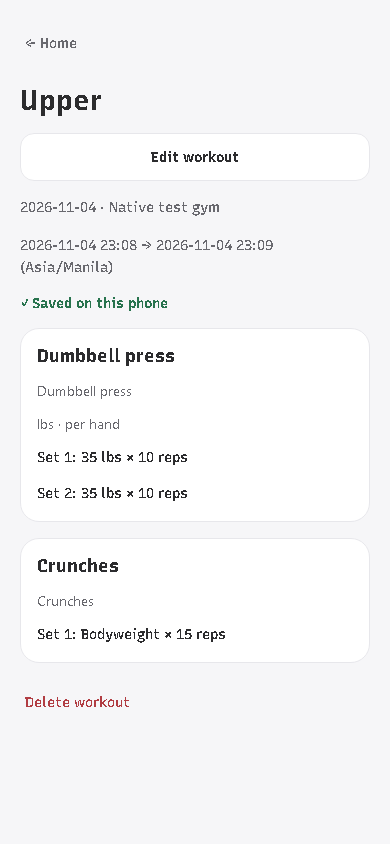
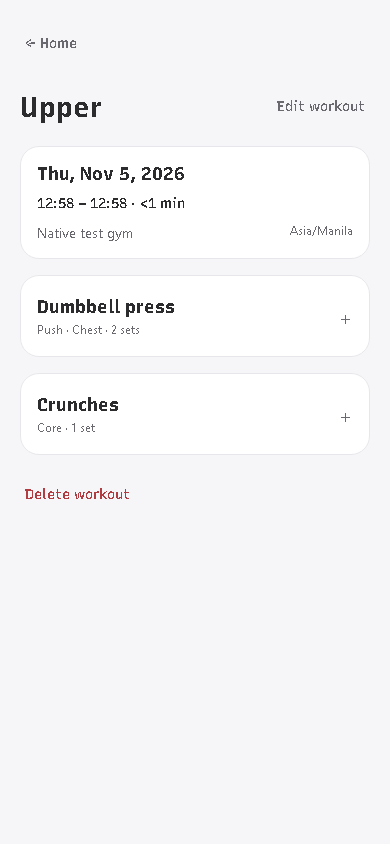
feat: add Push and Pull exercise subcategories

diff --git a/mobile/src/storage/workoutStore.ts b/mobile/src/storage/workoutStore.ts
@@ -2,7 +2,7 @@ import { completedExercises } from '../domain/workout.ts';
 import type { CompletedExercise, Location, SavedWorkout, WorkoutDraft } from '../domain/workout.ts';
 import { schema } from './schema.ts';
 import { workoutTimes } from '../domain/workoutTime.ts';
-import { cleanExerciseName, exerciseNameKey, type ExerciseCategory, type LoggedExercise } from '../domain/exerciseLibrary.ts';
+import { cleanExerciseName, exerciseNameKey, type ExerciseCategory, type ExerciseSubcategory, type LoggedExercise } from '../domain/exerciseLibrary.ts';
 
 type Param = string | number | null;
 export interface SqlExecutor {
@@ -27,14 +27,17 @@ export function createWorkoutStore(db: SqlDatabase, id: () => string, now: () =>
   async function writeExercises(tx: SqlExecutor, sessionId: string, locationId: string, exercises: CompletedExercise[]) {
     for (const [position, exercise] of exercises.entries()) {
       const mode = exercise.bodyweight ? 'reps' : 'load_reps';
-      const choices = await tx.getAllAsync<{ id: string; name: string }>('SELECT id,name FROM exercises WHERE measurement_mode=? ORDER BY id', mode);
+      const choices = await tx.getAllAsync<{ id: string; name: string; category: ExerciseCategory; subcategory: ExerciseSubcategory }>('SELECT id,name,category,subcategory FROM exercises WHERE measurement_mode=? ORDER BY id', mode);
       const sameName = (item: { name: string }) => exerciseNameKey(item.name) === exerciseNameKey(exercise.name);
       let catalog = choices.find(item => item.id === exercise.catalogId && sameName(item)) ?? choices.find(sameName);
       if (!catalog) {
-        catalog = { id: id(), name: exercise.name };
-        await tx.runAsync('INSERT INTO exercises(id,name,measurement_mode,category) VALUES (?,?,?,?)', catalog.id, exercise.name, mode, exercise.category ?? '');
+        catalog = { id: id(), name: exercise.name, category: exercise.category ?? '', subcategory: exercise.subcategory ?? '' };
+        await tx.runAsync('INSERT INTO exercises(id,name,measurement_mode,category,subcategory) VALUES (?,?,?,?,?)', catalog.id, exercise.name, mode, catalog.category, catalog.subcategory);
       }
-      if (exercise.category !== undefined) await tx.runAsync('UPDATE exercises SET category=? WHERE id=?', exercise.category, catalog.id);
+      if (exercise.category !== undefined) {
+        const subcategory = exercise.subcategory ?? (exercise.category === catalog.category ? catalog.subcategory : '');
+        await tx.runAsync('UPDATE exercises SET category=?,subcategory=? WHERE id=?', exercise.category, subcategory, catalog.id);
+      }
       const equipmentName = exercise.equipment || cleanExerciseName(catalog.name);
       const convention = exercise.bodyweight ? 'total' : exercise.convention;
       const dimension = exercise.bodyweight ? 'bodyweight' : exercise.unit === 'plates' ? 'plates' : 'mass';
@@ -52,7 +55,7 @@ export function createWorkoutStore(db: SqlDatabase, id: () => string, now: () =>
   async function readWorkout(sessionId: string): Promise<SavedWorkout> {
     const session = await db.getFirstAsync<Omit<SavedWorkout, 'exercises'>>('SELECT id,timezone,activity_date AS activityDate,session_type_name_snapshot AS sessionType,location_name_snapshot AS locationName,started_at AS startedAt,ended_at AS endedAt FROM sessions WHERE id=?', sessionId);
     if (!session) throw new Error('This workout could not be found.');
-    const rows = await db.getAllAsync<{ id: string; catalogId: string; category: ExerciseCategory; name: string; equipment: string; bodyweight: number; unit: CompletedExercise['unit']; convention: CompletedExercise['convention'] }>('SELECT se.id,se.exercise_id AS catalogId,e.category,se.exercise_name_snapshot AS name,se.equipment_name_snapshot AS equipment,se.bodyweight,se.load_unit AS unit,se.load_convention AS convention FROM session_exercises se JOIN exercises e ON e.id=se.exercise_id WHERE se.session_id=? ORDER BY se.position', sessionId);
+    const rows = await db.getAllAsync<{ id: string; catalogId: string; category: ExerciseCategory; subcategory: ExerciseSubcategory; name: string; equipment: string; bodyweight: number; unit: CompletedExercise['unit']; convention: CompletedExercise['convention'] }>('SELECT se.id,se.exercise_id AS catalogId,e.category,e.subcategory,se.exercise_name_snapshot AS name,se.equipment_name_snapshot AS equipment,se.bodyweight,se.load_unit AS unit,se.load_convention AS convention FROM session_exercises se JOIN exercises e ON e.id=se.exercise_id WHERE se.session_id=? ORDER BY se.position', sessionId);
     const exercises: CompletedExercise[] = [];
     for (const exercise of rows) {
       const sets = await db.getAllAsync<CompletedExercise['sets'][number]>('SELECT id,load_value AS weight,reps FROM sets WHERE session_exercise_id=? ORDER BY position', exercise.id);
@@ -65,10 +68,11 @@ export function createWorkoutStore(db: SqlDatabase, id: () => string, now: () =>
       await db.execAsync('PRAGMA foreign_keys=ON; PRAGMA journal_mode=WAL;');
       await db.transaction(async tx => {
         const version = (await tx.getFirstAsync<{ user_version: number }>('PRAGMA user_version'))?.user_version ?? 0;
-        if (version > 3) throw new Error('This database was created by a newer app. Update the app to open it.');
+        if (version > 4) throw new Error('This database was created by a newer app. Update the app to open it.');
         if (version === 0) await tx.execAsync(schema);
         if (version < 2) await tx.execAsync('ALTER TABLE locations ADD COLUMN archived INTEGER NOT NULL DEFAULT 0 CHECK(archived IN (0,1)); PRAGMA user_version=2;');
         if (version < 3) await tx.execAsync("ALTER TABLE exercises ADD COLUMN category TEXT NOT NULL DEFAULT '' CHECK(category IN ('','Push','Pull','Legs','Core','Cardio','Mobility','Other')); PRAGMA user_version=3;");
+        if (version < 4) await tx.execAsync("ALTER TABLE exercises ADD COLUMN subcategory TEXT NOT NULL DEFAULT '' CHECK(subcategory='' OR (category='Push' AND subcategory IN ('Chest','Triceps','Shoulders')) OR (category='Pull' AND subcategory IN ('Back','Biceps'))); PRAGMA user_version=4;");
       });
     }),
     listLocations: () => queue(() => db.getAllAsync<Location>('SELECT * FROM locations ORDER BY kind DESC,name')),
@@ -79,14 +83,14 @@ export function createWorkoutStore(db: SqlDatabase, id: () => string, now: () =>
       await db.runAsync('UPDATE locations SET archived=1 WHERE id=?', locationId);
     }),
     listLoggedExercises: () => queue(async (): Promise<LoggedExercise[]> => {
-      const rows = await db.getAllAsync<{ id: string; name: string; category: ExerciseCategory; measurement_mode: string }>(
-        'SELECT DISTINCT e.id,e.name,e.category,e.measurement_mode FROM exercises e JOIN session_exercises se ON se.exercise_id=e.id JOIN sessions s ON s.id=se.session_id WHERE s.status=? ORDER BY e.name COLLATE NOCASE,e.id', 'completed');
+      const rows = await db.getAllAsync<{ id: string; name: string; category: ExerciseCategory; subcategory: ExerciseSubcategory; measurement_mode: string }>(
+        'SELECT DISTINCT e.id,e.name,e.category,e.subcategory,e.measurement_mode FROM exercises e JOIN session_exercises se ON se.exercise_id=e.id JOIN sessions s ON s.id=se.session_id WHERE s.status=? ORDER BY e.name COLLATE NOCASE,e.id', 'completed');
       const seen = new Set<string>();
       return rows.flatMap(row => {
         const key = `${row.measurement_mode}:${exerciseNameKey(row.name)}`;
         if (seen.has(key)) return [];
         seen.add(key);
-        return [{ id: row.id, name: cleanExerciseName(row.name), bodyweight: row.measurement_mode === 'reps', category: row.category }];
+        return [{ id: row.id, name: cleanExerciseName(row.name), bodyweight: row.measurement_mode === 'reps', category: row.category, subcategory: row.subcategory }];
       });
     }),
     addGym: (name: string) => queue(async () => {

diff --git a/mobile/src/features/workouts/ExercisePicker.tsx b/mobile/src/features/workouts/ExercisePicker.tsx
@@ -1,23 +1,27 @@
 import { useRef, useState } from 'react';
 import { KeyboardAvoidingView, Modal, Platform, Pressable, ScrollView, Text, View } from 'react-native';
 import { SafeAreaView } from 'react-native-safe-area-context';
-import { cleanExerciseName, exerciseNameKey, exerciseCategories, matchingExercises, type ExerciseCategory, type LoggedExercise } from '../../domain/exerciseLibrary';
-import { Button, Field, styles } from '../../ui/controls';
+import { cleanExerciseName, exerciseNameKey, exerciseCategories, matchingExercises, subcategoriesFor, type ExerciseCategory, type ExerciseSubcategory, type LoggedExercise } from '../../domain/exerciseLibrary';
+import { Button, Choice, Field, styles } from '../../ui/controls';
 import { fonts, type AppTheme } from '../../ui/theme';
 import { ExerciseCategoryField } from './ExerciseCategoryField';
 
 export function ExercisePicker({ theme, items, loading, error, retry, cancel, add }: {
   theme: AppTheme; items: LoggedExercise[]; loading: boolean; error: string; retry: () => void;
-  cancel: () => void; add: (name: string, option?: LoggedExercise, category?: ExerciseCategory) => void;
+  cancel: () => void; add: (name: string, option?: LoggedExercise, category?: ExerciseCategory, subcategory?: ExerciseSubcategory) => void;
 }) {
   const [name, setName] = useState('');
   const [selected, setSelected] = useState<LoggedExercise>();
   const [filter, setFilter] = useState<ExerciseCategory | 'All'>('All');
   const [category, setCategory] = useState<ExerciseCategory>();
+  const [subcategory, setSubcategory] = useState<ExerciseSubcategory>();
+  const [subFilter, setSubFilter] = useState<ExerciseSubcategory | 'All'>('All');
   const submitted = useRef(false);
-  const matches = matchingExercises(items, name, filter);
+  const matches = matchingExercises(items, name, filter, subFilter);
   const option = selected ?? matchingExercises(items, name).find(item => exerciseNameKey(item.name) === exerciseNameKey(name));
   const assignedCategory = category ?? option?.category ?? '';
+  const assignedSubcategory = subcategory ?? (assignedCategory === option?.category ? option.subcategory ?? '' : '');
+  const filterGroups = filter === 'All' ? [] : subcategoriesFor(filter);
   return <Modal transparent animationType="fade" onRequestClose={cancel}>
     <SafeAreaView style={{ flex: 1, backgroundColor: '#00000066', justifyContent: 'center', padding: 16 }}>
       <KeyboardAvoidingView behavior={Platform.OS === 'ios' ? 'padding' : undefined} style={{ width: '100%', maxWidth: 480, alignSelf: 'center', maxHeight: '100%' }}>
@@ -29,11 +33,14 @@ export function ExercisePicker({ theme, items, loading, error, retry, cancel, ad
             placeholder="Search or add an exercise" onChangeText={value => { setName(value); setSelected(undefined); }} />
           <ScrollView horizontal showsHorizontalScrollIndicator={false} keyboardShouldPersistTaps="handled" contentContainerStyle={{ gap: 8 }}>
             {(['All', ...exerciseCategories, ''] as const).map(value => <Pressable key={value} accessibilityRole="button" accessibilityLabel={`Filter exercises: ${value || 'Uncategorized'}`}
-              accessibilityState={{ selected: filter === value }} onPress={() => setFilter(value)}
+              accessibilityState={{ selected: filter === value }} onPress={() => { setFilter(value); setSubFilter('All'); }}
               style={[styles.choice, { borderColor: filter === value ? theme.primary : 'transparent', backgroundColor: filter === value ? theme.accentSoft : theme.soft }]}>
               <Text style={{ color: filter === value ? theme.accent : theme.muted, fontFamily: fonts.medium }}>{value || 'Uncategorized'}</Text>
             </Pressable>)}
           </ScrollView>
+          {filterGroups.length > 0 && <Choice<ExerciseSubcategory | 'All'> theme={theme} label="Filter subcategory" value={subFilter}
+            options={[{ value: 'All', label: 'All' }, ...filterGroups.map(group => ({ value: group, label: group })), { value: '', label: 'Not assigned' }]}
+            onChange={setSubFilter} />}
           <Text style={{ color: theme.muted, fontFamily: fonts.medium }}>Previously logged</Text>
           <View style={{ gap: 8 }}>
             {loading && <Text style={{ color: theme.muted }}>Loading suggestions…</Text>}
@@ -43,21 +50,22 @@ export function ExercisePicker({ theme, items, loading, error, retry, cancel, ad
             </Text>}
             {matches.slice(0, 50).map(item => <Pressable key={item.id} accessibilityRole="button"
               accessibilityLabel={`Use ${item.name}, ${item.bodyweight ? 'bodyweight' : 'load and reps'}`} accessibilityState={{ selected: selected?.id === item.id }}
-              onPress={() => { setName(item.name); setSelected(item); setCategory(item.category ?? ''); }}
+              onPress={() => { setName(item.name); setSelected(item); setCategory(item.category ?? ''); setSubcategory(item.subcategory ?? ''); }}
               style={[styles.input, { borderWidth: 1, borderColor: selected?.id === item.id ? theme.primary : theme.border, backgroundColor: selected?.id === item.id ? theme.accentSoft : theme.soft, gap: 4 }]}>
               <Text style={{ color: theme.text, fontFamily: fonts.medium }}>{item.name}</Text>
               <Text style={{ color: theme.muted, fontSize: 12 }}>{item.bodyweight ? 'Bodyweight reps' : 'Load + reps'}</Text>
-              <Text style={{ color: theme.muted, fontSize: 12 }}>{item.category || 'Uncategorized'}</Text>
+              <Text style={{ color: theme.muted, fontSize: 12 }}>{[item.category, item.subcategory].filter(Boolean).join(' · ') || 'Uncategorized'}</Text>
             </Pressable>)}
             {matches.length > 50 && <Text style={{ color: theme.muted }}>Showing 50 matches. Keep typing to narrow the list.</Text>}
           </View>
-          <ExerciseCategoryField value={assignedCategory} theme={theme} onChange={setCategory} />
+          <ExerciseCategoryField value={assignedCategory} subcategory={assignedSubcategory} theme={theme}
+            onChange={value => { setCategory(value); setSubcategory(value === assignedCategory ? assignedSubcategory : ''); }} onSubcategoryChange={setSubcategory} />
           <Text style={{ color: theme.muted, fontSize: 12 }}>Category is remembered when you save the workout. It does not change the session type.</Text>
           </ScrollView>
           <Button theme={theme} variant="add" label="+ Add exercise" disabled={!cleanExerciseName(name)} onPress={() => {
             if (submitted.current || !cleanExerciseName(name)) return;
             submitted.current = true;
-            add(option?.name ?? cleanExerciseName(name), option, assignedCategory);
+            add(option?.name ?? cleanExerciseName(name), option, assignedCategory, assignedSubcategory);
           }} />
           <Button theme={theme} label="Cancel" onPress={cancel} />
         </View>

diff --git a/mobile/src/features/workouts/__tests__/ExercisePicker.test.tsx b/mobile/src/features/workouts/__tests__/ExercisePicker.test.tsx
@@ -4,6 +4,35 @@ import { getTheme } from '../../../ui/theme';
 
 const items = [{ id: 'press', name: 'Dumbbell press', bodyweight: false }, { id: 'crunch', name: 'Crunches', bodyweight: true }];
 
+it('filters Push exercises by muscle group and assigns a compatible subcategory', async () => {
+  const add = jest.fn();
+  await render(<ExercisePicker theme={getTheme('light')} items={[
+    { ...items[0], category: 'Push', subcategory: 'Chest' },
+    { id: 'extension', name: 'Triceps extension', bodyweight: false, category: 'Push', subcategory: 'Triceps' },
+  ]} loading={false} error="" retry={jest.fn()} cancel={jest.fn()} add={add} />);
+  await fireEvent.press(screen.getByRole('button', { name: 'Filter exercises: Push' }));
+  await fireEvent.press(screen.getByRole('button', { name: 'Filter subcategory: Chest' }));
+  expect(screen.queryByRole('button', { name: 'Use Triceps extension, load and reps' })).toBeNull();
+  await fireEvent.press(screen.getByRole('button', { name: 'Use Dumbbell press, load and reps' }));
+  expect(screen.getByRole('button', { name: 'Subcategory: Chest' })).toBeOnTheScreen();
+  await fireEvent.press(screen.getByRole('button', { name: '+ Add exercise' }));
+  expect(add).toHaveBeenCalledWith('Dumbbell press', expect.objectContaining({ id: 'press' }), 'Push', 'Chest');
+});
+
+it('clears the Push subcategory when changing to Pull and offers only Back and Biceps', async () => {
+  const add = jest.fn();
+  await render(<ExercisePicker theme={getTheme('light')} items={[{ ...items[0], category: 'Push', subcategory: 'Chest' }]} loading={false} error="" retry={jest.fn()} cancel={jest.fn()} add={add} />);
+  await fireEvent.press(screen.getByRole('button', { name: 'Use Dumbbell press, load and reps' }));
+  await fireEvent.press(screen.getByRole('button', { name: 'Category: Push' }));
+  await fireEvent.press(screen.getByRole('button', { name: 'Exercise category: Pull' }));
+  await fireEvent.press(screen.getByRole('button', { name: 'Subcategory: Not assigned' }));
+  expect(screen.queryByRole('button', { name: 'Exercise subcategory: Chest' })).toBeNull();
+  expect(screen.getByRole('button', { name: 'Exercise subcategory: Back' })).toBeOnTheScreen();
+  await fireEvent.press(screen.getByRole('button', { name: 'Exercise subcategory: Biceps' }));
+  await fireEvent.press(screen.getByRole('button', { name: '+ Add exercise' }));
+  expect(add).toHaveBeenCalledWith('Dumbbell press', expect.objectContaining({ id: 'press' }), 'Pull', 'Biceps');
+});
+
 it('combines category filters with name search and allows assigning a new exercise category', async () => {
   const add = jest.fn();
   await render(<ExercisePicker theme={getTheme('light')} items={[{ ...items[0], category: 'Push' }, { ...items[1], category: 'Core' }]} loading={false} error="" retry={jest.fn()} cancel={jest.fn()} add={add} />);
@@ -15,7 +44,7 @@ it('combines category filters with name search and allows assigning a new exerci
   await fireEvent.press(screen.getByRole('button', { name: 'Category: Uncategorized' }));
   await fireEvent.press(screen.getByRole('button', { name: 'Exercise category: Core' }));
   await fireEvent.press(screen.getByRole('button', { name: '+ Add exercise' }));
-  expect(add).toHaveBeenCalledWith('plank', undefined, 'Core');
+  expect(add).toHaveBeenCalledWith('plank', undefined, 'Core', '');
 });
 
 it('searches previous exercises without case/spacing differences and preserves selected identity and mode', async () => {
@@ -26,7 +55,7 @@ it('searches previous exercises without case/spacing differences and preserves s
   expect(picker.queryByRole('button', { name: 'Use Dumbbell press, load and reps' })).toBeNull();
   await fireEvent.press(picker.getByRole('button', { name: 'Use Crunches, bodyweight' }));
   await fireEvent.press(picker.getByRole('button', { name: '+ Add exercise' }));
-  expect(add).toHaveBeenCalledWith('Crunches', items[1], '');
+  expect(add).toHaveBeenCalledWith('Crunches', items[1], '', '');
 });
 
 it('allows a clean new name during suggestion failure and blocks empty names', async () => {
@@ -36,7 +65,7 @@ it('allows a clean new name during suggestion failure and blocks empty names', a
   await fireEvent.press(screen.getByRole('button', { name: 'Retry suggestions' })); expect(retry).toHaveBeenCalledTimes(1);
   await fireEvent.changeText(screen.getByLabelText('Search exercise names'), '  Zottman   curl ');
   await fireEvent.press(screen.getByRole('button', { name: '+ Add exercise' }));
-  expect(add).toHaveBeenCalledWith('Zottman curl', undefined, '');
+  expect(add).toHaveBeenCalledWith('Zottman curl', undefined, '', '');
 });
 
 it('cancels without adding an exercise', async () => {
@@ -56,5 +85,5 @@ it('retains the saved category for an exact name even when another filter is act
   await fireEvent.changeText(screen.getByLabelText('Search exercise names'), '  DUMBBELL press  ');
   expect(screen.getByRole('button', { name: 'Category: Push' })).toBeOnTheScreen();
   await fireEvent.press(screen.getByRole('button', { name: '+ Add exercise' }));
-  expect(add).toHaveBeenCalledWith('Dumbbell press', expect.objectContaining({ id: 'press' }), 'Push');
+  expect(add).toHaveBeenCalledWith('Dumbbell press', expect.objectContaining({ id: 'press' }), 'Push', '');
 });

diff --git a/mobile/src/features/workouts/ExerciseCategoryField.tsx b/mobile/src/features/workouts/ExerciseCategoryField.tsx
@@ -1,17 +1,26 @@
 import { useState } from 'react';
 import { View } from 'react-native';
-import { exerciseCategories, type ExerciseCategory } from '../../domain/exerciseLibrary';
+import { exerciseCategories, subcategoriesFor, type ExerciseCategory, type ExerciseSubcategory } from '../../domain/exerciseLibrary';
 import { Button, Choice } from '../../ui/controls';
 import type { AppTheme } from '../../ui/theme';
 
-export function ExerciseCategoryField({ value, theme, disabled = false, onChange }: {
-  value: ExerciseCategory; theme: AppTheme; disabled?: boolean; onChange: (category: ExerciseCategory) => void;
+export function ExerciseCategoryField({ value, subcategory = '', theme, disabled = false, onChange, onSubcategoryChange }: {
+  value: ExerciseCategory; subcategory?: ExerciseSubcategory; theme: AppTheme; disabled?: boolean;
+  onChange: (category: ExerciseCategory) => void; onSubcategoryChange?: (subcategory: ExerciseSubcategory) => void;
 }) {
   const [open, setOpen] = useState(false);
+  const [subOpen, setSubOpen] = useState(false);
+  const groups = subcategoriesFor(value);
   return <View style={{ gap: 8 }}>
     <Button theme={theme} variant="link" label={`Category: ${value || 'Uncategorized'}`} disabled={disabled} onPress={() => setOpen(current => !current)} />
     {open && <Choice<ExerciseCategory> theme={theme} label="Exercise category" value={value} disabled={disabled}
       options={[{ value: '', label: 'Uncategorized' }, ...exerciseCategories.map(category => ({ value: category, label: category }))]}
-      onChange={category => { onChange(category); setOpen(false); }} />}
+      onChange={category => { onChange(category); setOpen(false); setSubOpen(false); }} />}
+    {groups.length > 0 && onSubcategoryChange && <>
+      <Button theme={theme} variant="link" label={`Subcategory: ${subcategory || 'Not assigned'}`} disabled={disabled} onPress={() => setSubOpen(current => !current)} />
+      {subOpen && <Choice<ExerciseSubcategory> theme={theme} label="Exercise subcategory" value={subcategory} disabled={disabled}
+        options={[{ value: '', label: 'Not assigned' }, ...groups.map(group => ({ value: group, label: group }))]}
+        onChange={group => { onSubcategoryChange(group); setSubOpen(false); }} />}
+    </>}
   </View>;
 }

diff --git a/mobile/src/domain/exerciseLibrary.ts b/mobile/src/domain/exerciseLibrary.ts
@@ -1,6 +1,12 @@
 export const exerciseCategories = ['Push', 'Pull', 'Legs', 'Core', 'Cardio', 'Mobility', 'Other'] as const;
 export type ExerciseCategory = typeof exerciseCategories[number] | '';
-export type LoggedExercise = { id: string; name: string; bodyweight: boolean; category?: ExerciseCategory };
+export type ExerciseSubcategory = 'Chest' | 'Triceps' | 'Shoulders' | 'Back' | 'Biceps' | '';
+export function subcategoriesFor(category: ExerciseCategory): readonly ExerciseSubcategory[] {
+  if (category === 'Push') return ['Chest', 'Triceps', 'Shoulders'];
+  if (category === 'Pull') return ['Back', 'Biceps'];
+  return [];
+}
+export type LoggedExercise = { id: string; name: string; bodyweight: boolean; category?: ExerciseCategory; subcategory?: ExerciseSubcategory };
 
 export function cleanExerciseName(name: string): string {
   return name.trim().replace(/\s+/g, ' ');
@@ -10,7 +16,9 @@ export function exerciseNameKey(name: string): string {
   return cleanExerciseName(name).toLowerCase();
 }
 
-export function matchingExercises(items: LoggedExercise[], query: string, category: ExerciseCategory | 'All' = 'All'): LoggedExercise[] {
+export function matchingExercises(items: LoggedExercise[], query: string, category: ExerciseCategory | 'All' = 'All', subcategory: ExerciseSubcategory | 'All' = 'All'): LoggedExercise[] {
   const key = exerciseNameKey(query);
-  return items.filter(item => exerciseNameKey(item.name).includes(key) && (category === 'All' || (item.category ?? '') === category));
+  return items.filter(item => exerciseNameKey(item.name).includes(key)
+    && (category === 'All' || (item.category ?? '') === category)
+    && (subcategory === 'All' || (item.subcategory ?? '') === subcategory));
 }

diff --git a/mobile/src/domain/workout.ts b/mobile/src/domain/workout.ts
@@ -1,4 +1,4 @@
-import { cleanExerciseName, exerciseCategories, type ExerciseCategory } from './exerciseLibrary.ts';
+import { cleanExerciseName, exerciseCategories, subcategoriesFor, type ExerciseCategory, type ExerciseSubcategory } from './exerciseLibrary.ts';
 
 export type LoadUnit = 'lb' | 'kg' | 'plates';
 export type Convention = 'total' | 'per_hand' | 'per_side';
@@ -6,6 +6,7 @@ export type SetDraft = { id: string; weight: string; reps: string; completed: bo
 export type ExerciseDraft = {
   catalogId?: string;
   category?: ExerciseCategory;
+  subcategory?: ExerciseSubcategory;
   id: string; name: string; equipment: string; bodyweight: boolean;
   unit: LoadUnit; convention: Convention; sets: SetDraft[];
 };
@@ -53,6 +54,9 @@ export function completedExercises(draft: WorkoutDraft): CompletedExercise[] {
     if (!exercise.name.trim()) throw new Error('Name each exercise with completed sets.');
     if (exercise.category !== undefined && exercise.category !== '' && !exerciseCategories.includes(exercise.category)) {
       throw new Error('Choose a valid exercise category.');
+    }
+    if (exercise.subcategory !== undefined && exercise.subcategory !== '' && !subcategoriesFor(exercise.category ?? '').includes(exercise.subcategory)) {
+      throw new Error('Choose a subcategory that belongs to the exercise category.');
     }
     if (!['lb', 'kg', 'plates'].includes(exercise.unit) || !['total', 'per_hand', 'per_side'].includes(exercise.convention)) {
       throw new Error('Choose a valid unit and load convention.');

diff --git a/mobile/src/features/workouts/CompletedExerciseSummary.tsx b/mobile/src/features/workouts/CompletedExerciseSummary.tsx
@@ -7,13 +7,14 @@ import { fonts, type AppTheme } from '../../ui/theme';
 export function CompletedExerciseSummary({ exercise, theme }: { exercise: CompletedExercise; theme: AppTheme }) {
   const [expanded, setExpanded] = useState(false);
   const count = `${exercise.sets.length} ${exercise.sets.length === 1 ? 'set' : 'sets'}`;
+  const classification = [exercise.category, exercise.subcategory].filter(Boolean).join(' · ');
   return <View style={[styles.card, { backgroundColor: theme.surface, borderColor: theme.border }]}>
-    <Pressable accessibilityRole="button" accessibilityLabel={`${exercise.name}, ${count}`} accessibilityState={{ expanded }}
+    <Pressable accessibilityRole="button" accessibilityLabel={[exercise.name, classification, count].filter(Boolean).join(', ')} accessibilityState={{ expanded }}
       accessibilityHint={expanded ? 'Hide completed sets' : 'Show completed sets'} onPress={() => setExpanded(value => !value)}
       style={{ minHeight: 48, flexDirection: 'row', alignItems: 'center', gap: 12 }}>
       <View style={{ flex: 1, gap: 4 }}>
         <Text style={{ color: theme.text, fontFamily: fonts.bold, fontSize: 18 }}>{exercise.name}</Text>
-        <Text style={{ color: theme.muted, fontSize: 12 }}>{count}</Text>
+        <Text style={{ color: theme.muted, fontSize: 12 }}>{[classification, count].filter(Boolean).join(' · ')}</Text>
       </View>
       <Text accessible={false} style={{ color: theme.muted, fontSize: 20 }}>{expanded ? '−' : '+'}</Text>
     </Pressable>

diff --git a/mobile/src/features/workouts/__tests__/CompletedExerciseSummary.test.tsx b/mobile/src/features/workouts/__tests__/CompletedExerciseSummary.test.tsx
@@ -6,6 +6,13 @@ import { CompletedExerciseSummary } from '../CompletedExerciseSummary';
 const exercise: CompletedExercise = { id: 'press', name: 'Dumbbell press', equipment: 'Dumbbells', bodyweight: false,
   unit: 'lb', convention: 'per_hand', sets: [{ id: 'one', weight: 35, reps: 10 }, { id: 'two', weight: 40, reps: 8 }] };
 
+it('shows category and subcategory in the collapsed completed-workout card', async () => {
+  await render(<CompletedExerciseSummary exercise={{ ...exercise, category: 'Push', subcategory: 'Chest' }} theme={getTheme('light')} />);
+  expect(screen.getByText('Push · Chest · 2 sets')).toBeOnTheScreen();
+  expect(screen.getByRole('button', { name: 'Dumbbell press, Push · Chest, 2 sets', expanded: false })).toBeOnTheScreen();
+  expect(screen.queryByText(/Set 1:/)).toBeNull();
+});
+
 it('starts compact and independently expands and collapses each exercise without changing saved sets', async () => {
   const core: CompletedExercise = { ...exercise, id: 'core', name: 'Crunches', bodyweight: true, sets: [{ id: 'core-set', weight: null, reps: 15 }] };
   await render(<><CompletedExerciseSummary exercise={exercise} theme={getTheme('light')} /><CompletedExerciseSummary exercise={core} theme={getTheme('light')} /></>);

diff --git a/mobile/src/features/workouts/ExerciseEditor.tsx b/mobile/src/features/workouts/ExerciseEditor.tsx
@@ -43,7 +43,9 @@ export function ExerciseEditor({ exercise, index, theme, disabled, update, remov
     {expanded && <>
     {setup && <>
     <ExerciseNameField exercise={exercise} index={index} theme={theme} disabled={disabled} items={library} update={update} />
-    <ExerciseCategoryField value={exercise.category ?? ''} theme={theme} disabled={disabled} onChange={category => update({ ...exercise, category })} />
+    <ExerciseCategoryField value={exercise.category ?? ''} subcategory={exercise.subcategory ?? ''} theme={theme} disabled={disabled}
+      onChange={category => update({ ...exercise, category, subcategory: category === exercise.category ? exercise.subcategory : '' })}
+      onSubcategoryChange={subcategory => update({ ...exercise, subcategory })} />
     <Field theme={theme} label={`Exercise ${index + 1} equipment label`} caption="Equipment / setup" value={exercise.equipment} placeholder="e.g. Dumbbells or chest machine 1" editable={!disabled}
       onChangeText={equipment => update({ ...exercise, equipment })} />
     <Choice theme={theme} label="Tracking" value={exercise.bodyweight ? 'bodyweight' : 'loaded'} disabled={disabled}

diff --git a/mobile/src/app/workout.tsx b/mobile/src/app/workout.tsx
@@ -57,8 +57,8 @@ function WorkoutFlow({ draft, locations, status, error, busy, update, addGym, re
     {!!error && <Text accessibilityRole="alert" style={{ color: theme.danger }}>{error}</Text>}
     {!!setupError && <Text accessibilityRole="alert" style={{ color: theme.danger }}>{setupError}</Text>}
     {status === 'Not saved' && <Button theme={theme} label="Retry save" onPress={() => update(value => ({ ...value }))} />}
-    {pickerOpen && <ExercisePicker theme={theme} {...library} cancel={() => setPickerOpen(false)} add={(name, option, category) => {
-      const exercise = { ...newExercise(), name, catalogId: option?.id, bodyweight: option?.bodyweight ?? false, category };
+    {pickerOpen && <ExercisePicker theme={theme} {...library} cancel={() => setPickerOpen(false)} add={(name, option, category, subcategory) => {
+      const exercise = { ...newExercise(), name, catalogId: option?.id, bodyweight: option?.bodyweight ?? false, category, subcategory };
       requestScroll(exercise.id);
       update(value => ({ ...value, exercises: [...value.exercises, exercise] })); setAddedId(exercise.id); setPickerOpen(false);
     }} />}

diff --git a/mobile/src/features/workouts/SavedWorkoutEditor.tsx b/mobile/src/features/workouts/SavedWorkoutEditor.tsx
@@ -37,8 +37,8 @@ export function SavedWorkoutEditor({ initial, locations, theme, save, cancel }: 
     <Button theme={theme} label="Cancel changes" disabled={busy} onPress={cancel} />
   </>;
   return <Screen theme={theme} key={section} footer={footer} scrollRef={scrollRef}>
-    {pickerOpen && <ExercisePicker theme={theme} {...library} cancel={() => setPickerOpen(false)} add={(name, option, category) => {
-      const exercise = { ...newExercise(), name, catalogId: option?.id, bodyweight: option?.bodyweight ?? false, category };
+    {pickerOpen && <ExercisePicker theme={theme} {...library} cancel={() => setPickerOpen(false)} add={(name, option, category, subcategory) => {
+      const exercise = { ...newExercise(), name, catalogId: option?.id, bodyweight: option?.bodyweight ?? false, category, subcategory };
       requestScroll(exercise.id);
       setDraft(value => ({ ...value, exercises: [...value.exercises, exercise] })); setAddedId(exercise.id); setPickerOpen(false);
     }} />}

diff --git a/mobile/src/features/workouts/ExerciseNameField.tsx b/mobile/src/features/workouts/ExerciseNameField.tsx
@@ -20,7 +20,7 @@ export function ExerciseNameField({ exercise, index, theme, disabled, items, upd
       {matches.map(item => <Button key={item.id} theme={theme} disabled={disabled}
         label={`${item.name} · ${item.bodyweight ? 'Bodyweight' : 'Load + reps'}`} accessibilityLabel={`Use ${item.name}, ${item.bodyweight ? 'bodyweight' : 'load and reps'}`}
         onPress={() => {
-          update({ ...exercise, catalogId: item.id, name: item.name, bodyweight: item.bodyweight, category: item.category ?? '',
+          update({ ...exercise, catalogId: item.id, name: item.name, bodyweight: item.bodyweight, category: item.category ?? '', subcategory: item.subcategory ?? '',
             sets: exercise.bodyweight === item.bodyweight ? exercise.sets : exercise.sets.map(set => ({ ...set, completed: false })) });
           setSuggesting(false);
         }} />)}
